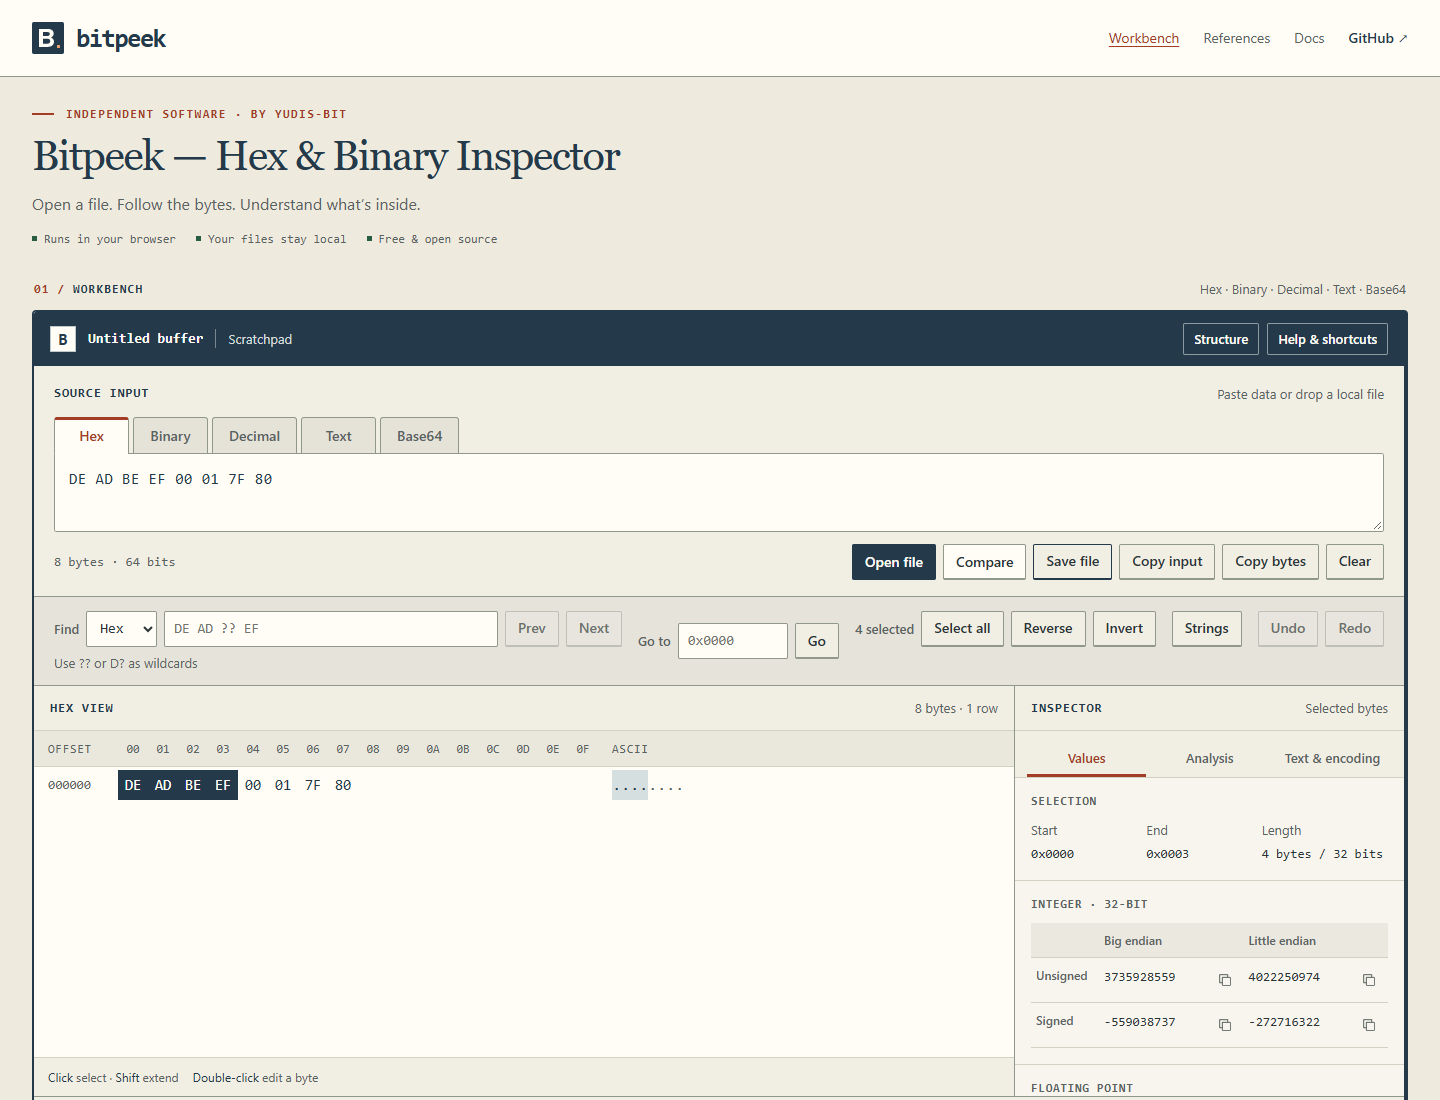
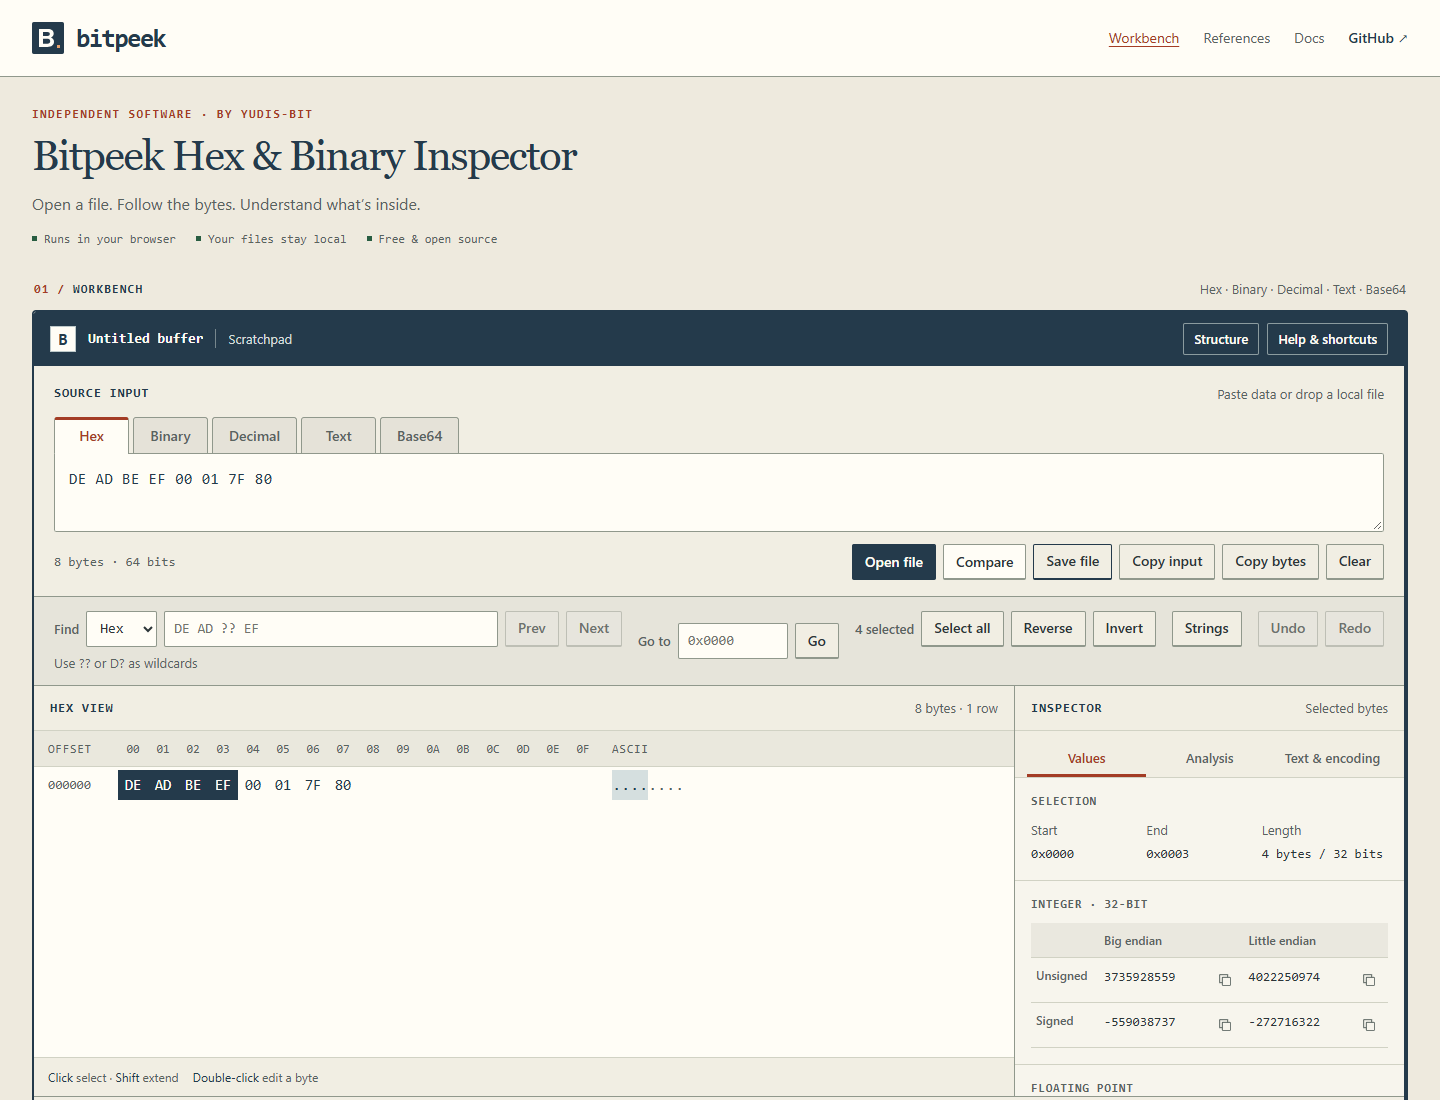
Remove heading separators and synchronize workspace lockfile

Changed region(s): [[0.0312, 0.0927, 0.4375, 0.1545]]

diff --git a/index.html b/index.html
@@ -25,7 +25,7 @@
     <meta property="og:locale" content="en_US" />
     <meta
       property="og:title"
-      content="Bitpeek — Online Hex Editor &amp; Binary Inspector"
+      content="Bitpeek Online Hex Editor &amp; Binary Inspector"
     />
     <meta
       property="og:description"
@@ -46,7 +46,7 @@
     <meta name="twitter:card" content="summary_large_image" />
     <meta
       name="twitter:title"
-      content="Bitpeek — Online Hex Editor &amp; Binary Inspector"
+      content="Bitpeek Online Hex Editor &amp; Binary Inspector"
     />
     <meta
       name="twitter:description"
@@ -66,7 +66,7 @@
     <link rel="apple-touch-icon" sizes="180x180" href="/apple-touch-icon.png" />
     <link rel="manifest" href="/site.webmanifest" />
     <link rel="stylesheet" href="/seo.css" />
-    <title>Bitpeek — Online Hex Editor &amp; Binary Inspector</title>
+    <title>Bitpeek Online Hex Editor &amp; Binary Inspector</title>
 
     <script type="application/ld+json">
       {
@@ -124,7 +124,7 @@
       <section class="utility-intro" aria-labelledby="page-heading">
         <div class="workspace-frame">
           <p class="utility-kicker">Independent software · by Yudis-bit</p>
-          <h1 id="page-heading">Bitpeek — Hex &amp; Binary Inspector</h1>
+          <h1 id="page-heading">Bitpeek Hex &amp; Binary Inspector</h1>
           <p class="utility-description">
             Open a file. Follow the bytes. Understand what’s inside.
           </p>

diff --git a/public/seo.css b/public/seo.css
@@ -47,7 +47,6 @@ code, pre { font-family: var(--mono); font-variant-numeric: tabular-nums slashed
 .workspace-frame, .workspace-section { width: min(1560px, calc(100% - 64px)); margin-inline: auto; }
 .utility-intro { padding: 30px 0 18px; }
 .utility-kicker { display: flex; align-items: center; gap: 12px; margin: 0 0 9px; color: var(--accent); font: 600 12px var(--mono); letter-spacing: .12em; text-transform: uppercase; }
-.utility-kicker::before { content: ''; width: 22px; height: 2px; background: currentColor; }
 .utility-intro h1 { margin: 0; font: 400 clamp(26px, 3vw, 42px)/1.22 Georgia, "Times New Roman", serif; letter-spacing: -.035em; }
 .utility-description { margin: 10px 0 0; color: var(--muted); font-size: 16px; }
 .utility-facts { display: flex; align-items: center; flex-wrap: wrap; gap: 8px 20px; margin: 14px 0 0; color: var(--muted); font: 12px var(--mono); }
